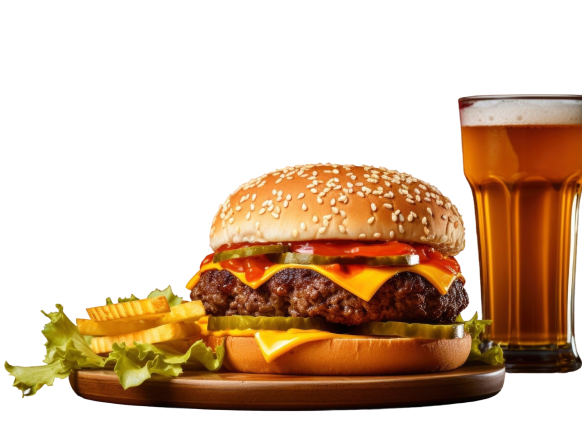
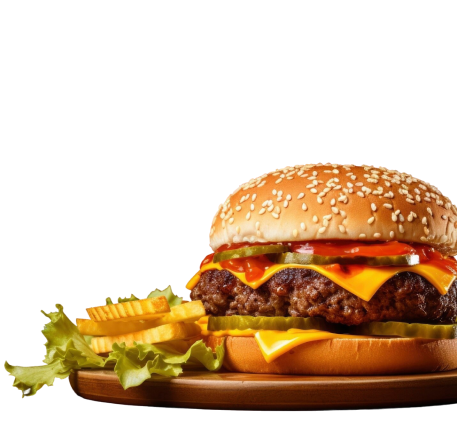
Sign-in e Sign-Up iniciado

diff --git a/app/(auth)/_layout.tsx b/app/(auth)/_layout.tsx
@@ -1,0 +1,47 @@
+import CustomButton from "@/components/CustomButton";
+import Custominput from "@/components/Custominput";
+import { images } from "@/constants";
+import { Slot } from "expo-router";
+import React from "react";
+import {
+  Dimensions,
+  Image,
+  ImageBackground,
+  KeyboardAvoidingView,
+  Platform,
+  ScrollView,
+  View,
+} from "react-native";
+
+export default function _Layout() {
+  return (
+    <KeyboardAvoidingView
+      behavior={Platform.OS === "ios" ? "padding" : "height"}
+    >
+      <ScrollView
+        className="bg-white h-full"
+        keyboardShouldPersistTaps="handled"
+      >
+        <View
+          className="w-full relative"
+          style={{ height: Dimensions.get("screen").height / 2.25 }}
+        >
+          <ImageBackground
+            source={images.loginGraphic}
+            className={"size-full rounded-b-lg"}
+            resizeMode="stretch"
+          />
+          <Image
+            source={images.logo}
+            className="self-center size-48 absolute -bottom-20 z-10"
+            resizeMode="contain"
+          />
+        </View>
+
+        <Custominput />
+        <CustomButton />
+      </ScrollView>
+      <Slot />
+    </KeyboardAvoidingView>
+  );
+}

diff --git a/components/CartButton.tsx b/components/CartButton.tsx
@@ -1,0 +1,21 @@
+import { images } from "@/constants";
+import React from "react";
+import { Image, Text, TouchableOpacity, View } from "react-native";
+
+const CartButton = () => {
+  const totalItems = 10;
+
+  return (
+    <TouchableOpacity className="cart-btn" onPress={() => {}}>
+      <Image source={images.bag} className="size-5" resizeMode="contain" />
+
+      {totalItems > 0 && (
+        <View className="cart-badge">
+          <Text className="small-bold text-white">{totalItems}</Text>
+        </View>
+      )}
+    </TouchableOpacity>
+  );
+};
+
+export default CartButton;

diff --git a/components/Custominput.tsx b/components/Custominput.tsx
@@ -1,0 +1,19 @@
+import React from "react";
+import { Text, View } from "react-native";
+
+const Custominput = ({
+  placeholder = "Escreva algo",
+  value,
+  onChangeText,
+  label,
+  secureTextEntery = false,
+  keyboardType = "default",
+}: CustomInputProps) => {
+  return (
+    <View>
+      <Text>Custominput</Text>
+    </View>
+  );
+};
+
+export default Custominput;

diff --git a/app/(auth)/sign-in.tsx b/app/(auth)/sign-in.tsx
@@ -1,0 +1,14 @@
+import { router } from "expo-router";
+import React from "react";
+import { Button, Text, View } from "react-native";
+
+const SignIn = () => {
+  return (
+    <View>
+      <Text>SignIn</Text>
+      <Button title="Cadastrar" onPress={() => router.push("/sign-up")} />
+    </View>
+  );
+};
+
+export default SignIn;

diff --git a/app/(auth)/sign-up.tsx b/app/(auth)/sign-up.tsx
@@ -1,0 +1,14 @@
+import { router } from "expo-router";
+import React from "react";
+import { Button, Text, View } from "react-native";
+
+const SignUp = () => {
+  return (
+    <View>
+      <Text>SignUp</Text>
+      <Button title="Entrar" onPress={() => router.push("/sign-in")} />
+    </View>
+  );
+};
+
+export default SignUp;

diff --git a/app/(tabs)/cart.tsx b/app/(tabs)/cart.tsx
@@ -1,0 +1,12 @@
+import React from "react";
+import { Text, View } from "react-native";
+
+const Cart = () => {
+  return (
+    <View>
+      <Text>Cart</Text>
+    </View>
+  );
+};
+
+export default Cart;

diff --git a/app/(tabs)/profile.tsx b/app/(tabs)/profile.tsx
@@ -1,0 +1,12 @@
+import React from "react";
+import { Text, View } from "react-native";
+
+const Profile = () => {
+  return (
+    <View>
+      <Text>Profile</Text>
+    </View>
+  );
+};
+
+export default Profile;

diff --git a/app/(tabs)/search.tsx b/app/(tabs)/search.tsx
@@ -1,0 +1,12 @@
+import React from "react";
+import { Text, View } from "react-native";
+
+const Search = () => {
+  return (
+    <View>
+      <Text>Search</Text>
+    </View>
+  );
+};
+
+export default Search;

diff --git a/components/CustomButton.tsx b/components/CustomButton.tsx
@@ -1,0 +1,12 @@
+import React from "react";
+import { Text, View } from "react-native";
+
+const CustomButton = () => {
+  return (
+    <View>
+      <Text>CustomButton</Text>
+    </View>
+  );
+};
+
+export default CustomButton;

diff --git a/app/(tabs)/_layout.tsx b/app/(tabs)/_layout.tsx
@@ -1,0 +1,10 @@
+import { Redirect, Slot } from "expo-router";
+import React from "react";
+
+export default function _Layout() {
+  const isAuthenticated = false;
+
+  if (!isAuthenticated) return <Redirect href="/sign-in" />;
+
+  return <Slot />;
+}

diff --git a/lib/appwrite.ts b/lib/appwrite.ts
@@ -1,0 +1,7 @@
+export const appWriteConfig = {
+  endpoint: process.env.EXPO_PUBLIC_APPWRITE_ENDPOINT,
+  platform: "com.foome",
+  projectId: process.env.EXPO_PUBLIC_APPWRITE_PROJECT_ID,
+  databaseId: "6a023a12000993b55e80",
+  userCollectionId: "user",
+};